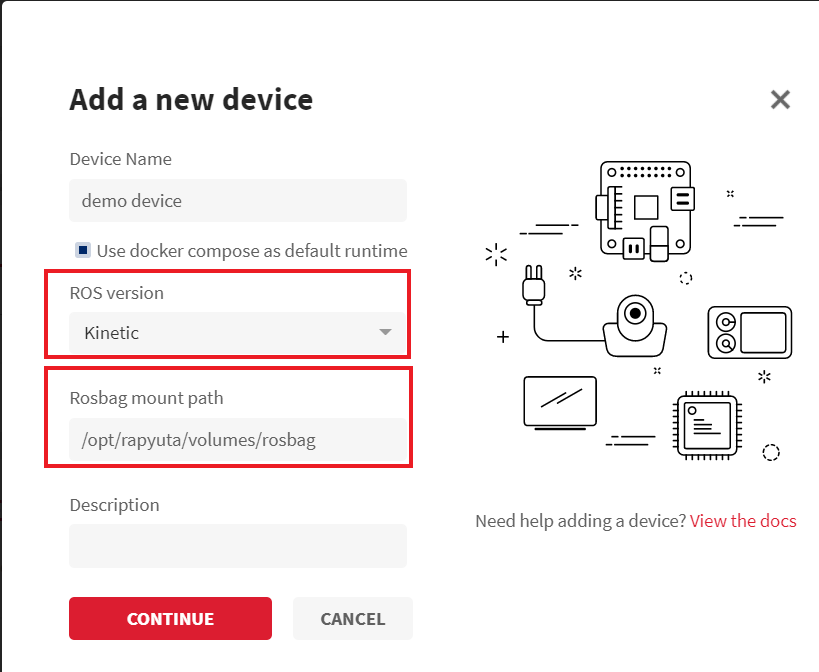
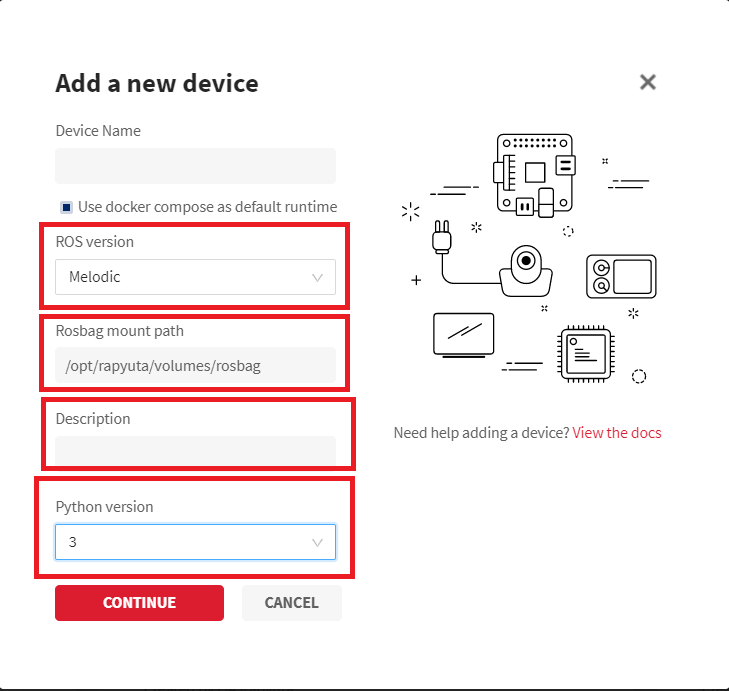
Review comments added

diff --git a/hugo/content/3_how-tos/32_device-management/321_onboarding-a-device.md b/hugo/content/3_how-tos/32_device-management/321_onboarding-a-device.md
@@ -69,8 +69,9 @@ After you onboard a device, you cannot change the mount path to store the ROS ba
    {{% /notice %}}
 
 6. In the **Description** box, enter a summary of the device.
-7. Click **CONTINUE**.
-8.  To copy the generated token (a unique device setup link), click **COPY**.    
+7. Select the python version for the device from the **Python Version** drop-down menu.
+8. Click **CONTINUE**.
+9.  To copy the generated token (a unique device setup link), click **COPY**.    
    You must copy the token before it expires in *ten* minutes. To generate
    the token again, click **Token** on the **Devices** page.
    ![Device Token](/images/getting-started/add-new-device/device-token.png?classes=border,shadow&width=40pc)
